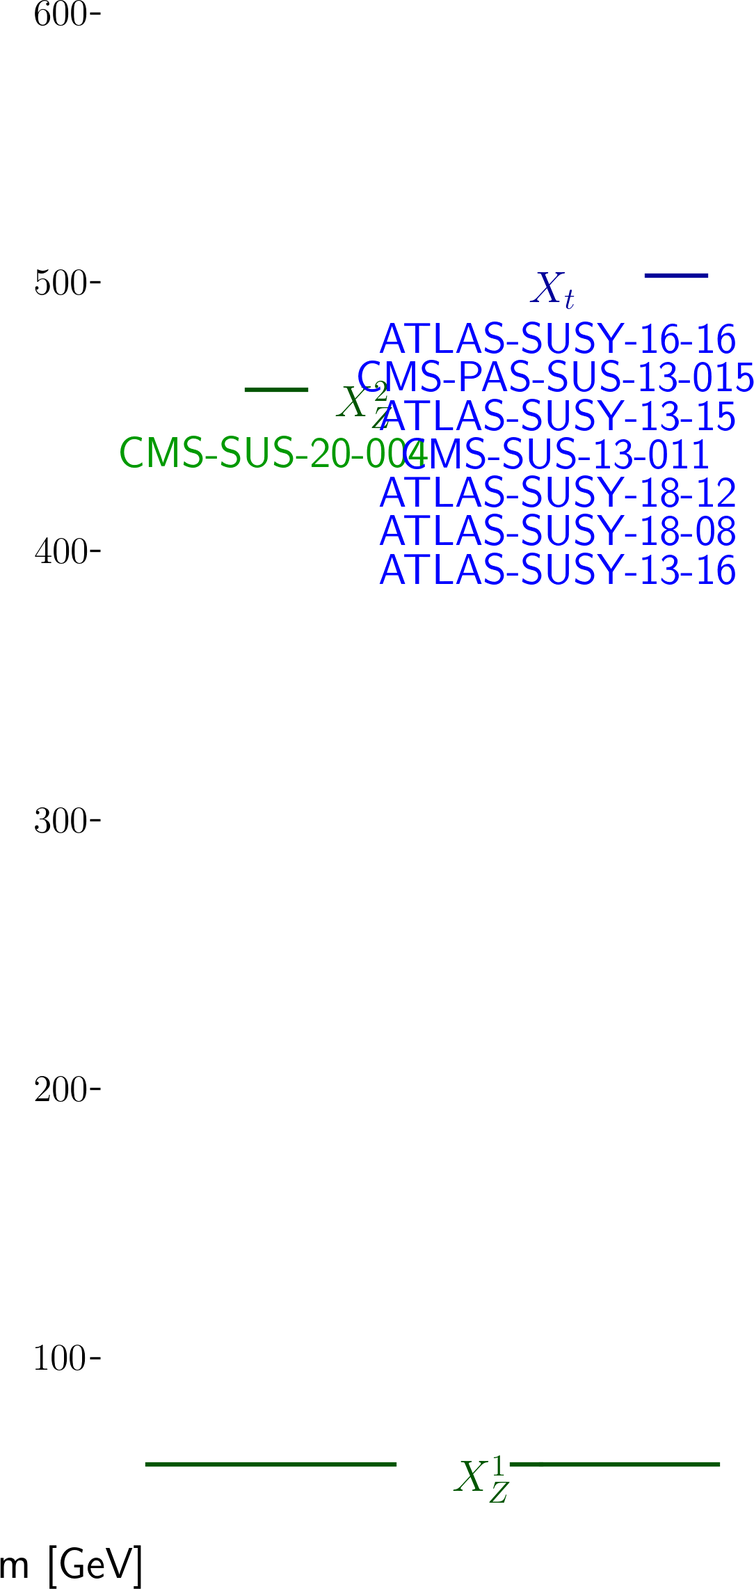
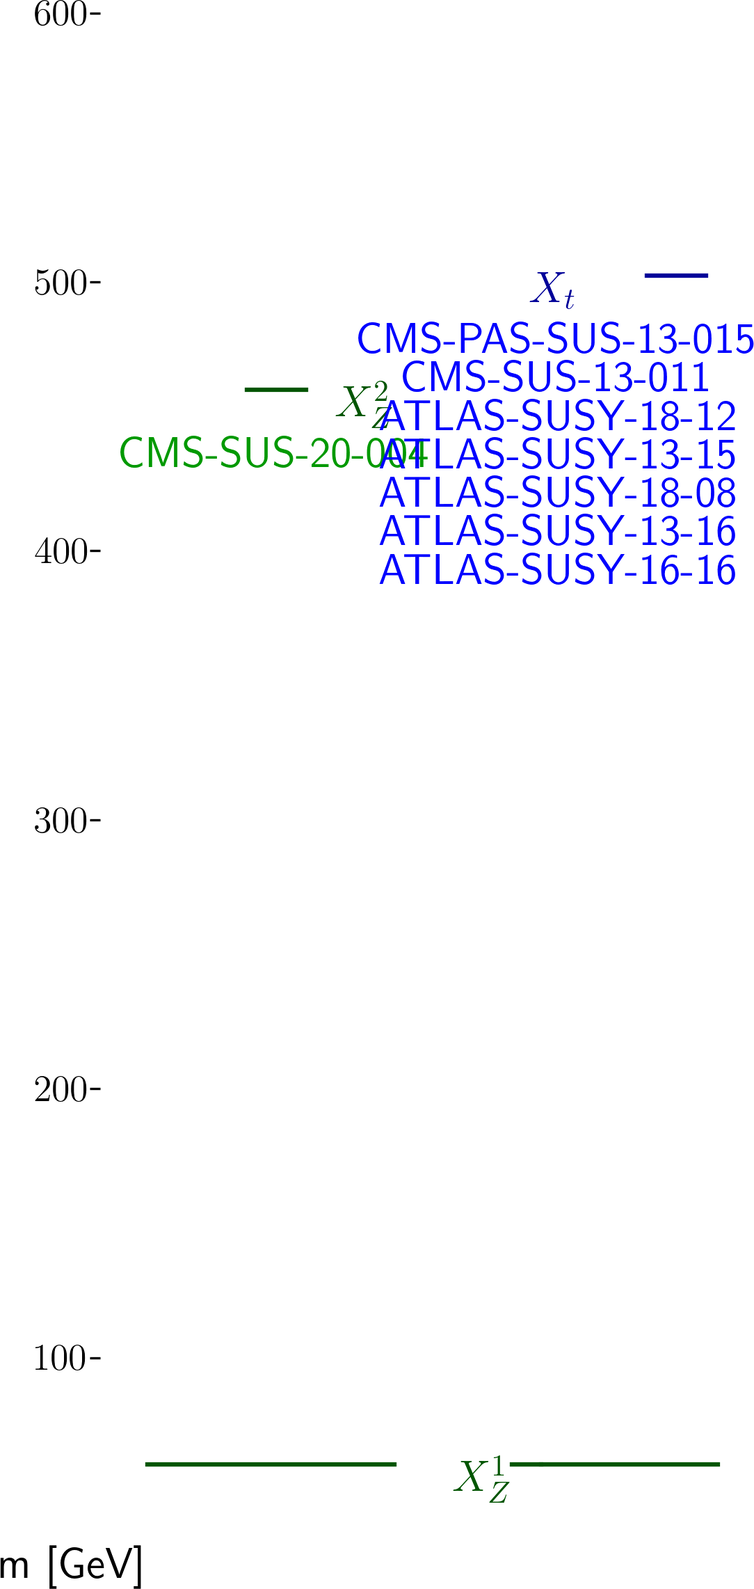
automated update by plotHiscore.py to experimental_300:     K=9.258 Z=3.58 walkerid=0

Changed region(s): [[0.4566, 0.1866, 1.0, 0.3421], [0.8828, 0.3421, 0.9133, 0.3732]]

diff --git a/protomodels/experimental_300/rawnumbers.html b/protomodels/experimental_300/rawnumbers.html
@@ -5,14 +5,13 @@
 <tr><td><a href=https://atlas.web.cern.ch/Atlas/GROUPS/PHYSICS/PAPERS/SUSY-2013-16/>ATLAS-SUSY-2013-16</a></td><td>em</td> <td>SRA4</td><td>T2tt</td><td>4</td><td>2.40 +/- 0.70</td><td style="text-align:right">0.9 &sigma;</td><td style="text-align:right">X<sup>1</sup><sub>Z</sub>, X<sub>t</sub></td></tr>
 <tr><td><a href=https://atlas.web.cern.ch/Atlas/GROUPS/PHYSICS/PAPERS/SUSY-2016-16/>ATLAS-SUSY-2016-16</a></td><td>em</td> <td>tN_med</td><td>T2tt</td><td>50</td><td>36.30 +/- 6.60</td><td style="text-align:right">1.5 &sigma;</td><td style="text-align:right">X<sup>1</sup><sub>Z</sub>, X<sub>t</sub></td></tr>
 <tr><td><a href=https://atlas.web.cern.ch/Atlas/GROUPS/PHYSICS/PAPERS/SUSY-2018-08/>ATLAS-SUSY-2018-08</a></td><td>em</td> <td>SRSF140</td><td>T2tt</td><td>9</td><td>5.10 +/- 0.90</td><td style="text-align:right">1.5 &sigma;</td><td style="text-align:right">X<sup>1</sup><sub>Z</sub>, X<sub>t</sub></td></tr>
-<tr><td><a href=https://atlas.web.cern.ch/Atlas/GROUPS/PHYSICS/PAPERS/SUSY-2018-12/>ATLAS-SUSY-2018-12</a></td><td>em</td> <td>SRBTT</td><td>T2tt</td><td>67</td><td>46.00 +/- 7.00</td><td style="text-align:right">2.1 &sigma;</td><td style="text-align:right">X<sup>1</sup><sub>Z</sub>, X<sub>t</sub></td></tr>
-<tr><td><a href=https://twiki.cern.ch/twiki/bin/view/CMSPublic/PhysicsResultsSUS13015>CMS-PAS-SUS-13-015</a></td><td>em</td> <td>pTmiss350_Nb2</td><td>T2tt</td><td>15</td><td>8.60 +/- 7.10</td><td style="text-align:right">0.7 &sigma;</td><td style="text-align:right">X<sup>1</sup><sub>Z</sub>, X<sub>t</sub></td></tr>
-<tr><td><a href=https://twiki.cern.ch/twiki/bin/view/CMSPublic/PhysicsResultsSUS13011>CMS-SUS-13-011</a></td><td>em</td> <td>LM150</td><td>T2tt</td><td>227</td><td>251.00 +/- 50.00</td><td style="text-align:right">-0.5 &sigma;</td><td style="text-align:right">X<sup>1</sup><sub>Z</sub>, X<sub>t</sub></td></tr>
+<tr><td><a href=https://atlas.web.cern.ch/Atlas/GROUPS/PHYSICS/PAPERS/SUSY-2018-12/>ATLAS-SUSY-2018-12</a></td><td>em</td> <td>SRBTT</td><td>T2tt</td><td>67</td><td>46.00 +/- 7.00</td><td style="text-align:right">2.0 &sigma;</td><td style="text-align:right">X<sup>1</sup><sub>Z</sub>, X<sub>t</sub></td></tr>
+<tr><td><a href=https://twiki.cern.ch/twiki/bin/view/CMSPublic/PhysicsResultsSUS13015>CMS-PAS-SUS-13-015</a></td><td>em</td> <td>pTmiss350_Nb2</td><td>T2tt</td><td>15</td><td>8.60 +/- 7.10</td><td style="text-align:right">0.8 &sigma;</td><td style="text-align:right">X<sup>1</sup><sub>Z</sub>, X<sub>t</sub></td></tr>
+<tr><td><a href=https://twiki.cern.ch/twiki/bin/view/CMSPublic/PhysicsResultsSUS13011>CMS-SUS-13-011</a></td><td>em</td> <td>LM150</td><td>T2tt</td><td>227</td><td>251.00 +/- 50.00</td><td style="text-align:right">-0.4 &sigma;</td><td style="text-align:right">X<sup>1</sup><sub>Z</sub>, X<sub>t</sub></td></tr>
 <tr><td><a href=http://cms-results.web.cern.ch/cms-results/public-results/publications/SUS-20-004/>CMS-SUS-20-004</a></td><td>comb</td> <td>-</td><td>TChiHH</td><td> 0.2 fb </td><td> 0.1 fb</td><td style="text-align:right">2.4 &sigma;</td><td style="text-align:right">X<sup>1</sup><sub>Z</sub>, X<sup>2</sup><sub>Z</sub></td></tr>
 </table>
 <table style='color:grey'>
 <tr><th>Analysis Name</th><th>Type</th><th>Dataset</th><th>Topos</th><th>Observed</th><th>Expected</th><th>Approx &sigma;</th><th>Particles</th><tr><td><a href=http://cms-results.web.cern.ch/cms-results/public-results/publications/SUS-19-006/index.html>CMS-SUS-19-006-agg</a></td><td>comb</td> <td>-</td><td>T2tt</td><td> 2 fb </td><td> 3 fb</td><td style="text-align:right">-inf &sigma;</td><td style="text-align:right">X<sup>1</sup><sub>Z</sub>, X<sub>t</sub></td></tr>
-<tr><td><a href=http://cms-results.web.cern.ch/cms-results/public-results/publications/SUS-20-004/>CMS-SUS-20-004</a></td><td>comb</td> <td>-</td><td>TChiHH</td><td> 0.2 fb </td><td> 0.1 fb</td><td style="text-align:right">2.4 &sigma;</td><td style="text-align:right">X<sup>1</sup><sub>Z</sub>, X<sup>2</sup><sub>Z</sub></td></tr>
 <tr><td><a href=http://cms-results.web.cern.ch/cms-results/public-results/publications/SUS-16-050/index.html>CMS-SUS-16-050-agg</a></td><td>comb</td> <td>-</td><td>T2tt</td><td> 2 fb </td><td> 2 fb</td><td style="text-align:right">-inf &sigma;</td><td style="text-align:right">X<sup>1</sup><sub>Z</sub>, X<sub>t</sub></td></tr>
 <tr><td><a href=http://cms-results.web.cern.ch/cms-results/public-results/publications/SUS-20-002/index.html>CMS-SUS-20-002</a></td><td>ul</td> <td>-</td><td>T2tt</td><td> 2e+01 fb </td><td> 2e+01 fb</td><td style="text-align:right">-0.01 &sigma;</td><td style="text-align:right">X<sup>1</sup><sub>Z</sub>, X<sub>t</sub></td></tr>
 <tr><td><a href=http://cms-results.web.cern.ch/cms-results/public-results/publications/SUS-19-010/index.html>CMS-SUS-19-010</a></td><td>ul</td> <td>-</td><td>T2tt</td><td> 2e+01 fb </td><td> 2e+01 fb</td><td style="text-align:right">0.02 &sigma;</td><td style="text-align:right">X<sup>1</sup><sub>Z</sub>, X<sub>t</sub></td></tr>
@@ -20,77 +19,36 @@
 <tr><td><a href=http://cms-results.web.cern.ch/cms-results/public-results/publications/SUS-16-036/index.html>CMS-SUS-16-036</a></td><td>ul</td> <td>-</td><td>T2tt</td><td> 4e+01 fb </td><td> 6e+01 fb</td><td style="text-align:right">-0.7 &sigma;</td><td style="text-align:right">X<sup>1</sup><sub>Z</sub>, X<sub>t</sub></td></tr>
 <tr><td><a href=https://atlas.web.cern.ch/Atlas/GROUPS/PHYSICS/PAPERS/SUSY-2018-08/>ATLAS-SUSY-2018-08</a></td><td>ul</td> <td>-</td><td>T2tt</td><td> 4e+01 fb </td><td> None fb</td><td style="text-align:right">N/A</td><td style="text-align:right">X<sup>1</sup><sub>Z</sub>, X<sub>t</sub></td></tr>
 <tr><td><a href=http://cms-results.web.cern.ch/cms-results/public-results/publications/SUS-19-011/index.html>CMS-SUS-19-011</a></td><td>ul</td> <td>-</td><td>T2tt</td><td> 4e+01 fb </td><td> 5e+01 fb</td><td style="text-align:right">-0.02 &sigma;</td><td style="text-align:right">X<sup>1</sup><sub>Z</sub>, X<sub>t</sub></td></tr>
-<tr><td><a href=https://atlas.web.cern.ch/Atlas/GROUPS/PHYSICS/PAPERS/SUSY-2018-08/>ATLAS-SUSY-2018-08</a></td><td>em</td> <td>SRDF180</td><td>T2tt</td><td>1</td><td>3.25 +/- 0.45</td><td style="text-align:right">-1.2 &sigma;</td><td style="text-align:right">X<sup>1</sup><sub>Z</sub>, X<sub>t</sub></td></tr>
 <tr><td><a href=http://cms-results.web.cern.ch/cms-results/public-results/publications/SUS-16-051/index.html>CMS-SUS-16-051</a></td><td>ul</td> <td>-</td><td>T2tt</td><td> 5e+01 fb </td><td> 5e+01 fb</td><td style="text-align:right">0.05 &sigma;</td><td style="text-align:right">X<sup>1</sup><sub>Z</sub>, X<sub>t</sub></td></tr>
 <tr><td><a href=http://cms-results.web.cern.ch/cms-results/public-results/publications/SUS-16-033/index.html>CMS-SUS-16-033</a></td><td>ul</td> <td>-</td><td>T2tt</td><td> 6e+01 fb </td><td> 8e+01 fb</td><td style="text-align:right">-0.7 &sigma;</td><td style="text-align:right">X<sup>1</sup><sub>Z</sub>, X<sub>t</sub></td></tr>
-<tr><td><a href=https://atlas.web.cern.ch/Atlas/GROUPS/PHYSICS/PAPERS/SUSY-2018-12/>ATLAS-SUSY-2018-12</a></td><td>em</td> <td>SRBTW</td><td>T2tt</td><td>84</td><td>81.00 +/- 7.00</td><td style="text-align:right">0.3 &sigma;</td><td style="text-align:right">X<sup>1</sup><sub>Z</sub>, X<sub>t</sub></td></tr>
 <tr><td><a href=https://atlas.web.cern.ch/Atlas/GROUPS/PHYSICS/PAPERS/SUSY-2016-15/>ATLAS-SUSY-2016-15</a></td><td>ul</td> <td>-</td><td>T2tt</td><td> 8e+01 fb </td><td> None fb</td><td style="text-align:right">N/A</td><td style="text-align:right">X<sup>1</sup><sub>Z</sub>, X<sub>t</sub></td></tr>
-<tr><td><a href=https://atlas.web.cern.ch/Atlas/GROUPS/PHYSICS/PAPERS/SUSY-2016-16/>ATLAS-SUSY-2016-16</a></td><td>em</td> <td>tN_med</td><td>T2tt</td><td>50</td><td>36.30 +/- 6.60</td><td style="text-align:right">1.5 &sigma;</td><td style="text-align:right">X<sup>1</sup><sub>Z</sub>, X<sub>t</sub></td></tr>
 <tr><td><a href=http://cms-results.web.cern.ch/cms-results/public-results/publications/SUS-16-033/index.html>CMS-SUS-16-033</a></td><td>em</td> <td>SR11_Njet7_Nb1_ ...</td><td>T2tt</td><td>890</td><td>969.00 +/- 80.00</td><td style="text-align:right">-0.9 &sigma;</td><td style="text-align:right">X<sup>1</sup><sub>Z</sub>, X<sub>t</sub></td></tr>
-<tr><td><a href=https://atlas.web.cern.ch/Atlas/GROUPS/PHYSICS/PAPERS/SUSY-2018-08/>ATLAS-SUSY-2018-08</a></td><td>em</td> <td>SRDF160</td><td>T2tt</td><td>1</td><td>2.83 +/- 0.45</td><td style="text-align:right">-1.0 &sigma;</td><td style="text-align:right">X<sup>1</sup><sub>Z</sub>, X<sub>t</sub></td></tr>
-<tr><td><a href=https://atlas.web.cern.ch/Atlas/GROUPS/PHYSICS/PAPERS/SUSY-2018-12/>ATLAS-SUSY-2018-12</a></td><td>em</td> <td>SRBTT</td><td>T2tt</td><td>67</td><td>46.00 +/- 7.00</td><td style="text-align:right">2.1 &sigma;</td><td style="text-align:right">X<sup>1</sup><sub>Z</sub>, X<sub>t</sub></td></tr>
 <tr><td><a href=https://atlas.web.cern.ch/Atlas/GROUPS/PHYSICS/PAPERS/SUSY-2016-16/>ATLAS-SUSY-2016-16</a></td><td>ul</td> <td>-</td><td>T2tt</td><td> 1e+02 fb </td><td> None fb</td><td style="text-align:right">N/A</td><td style="text-align:right">X<sup>1</sup><sub>Z</sub>, X<sub>t</sub></td></tr>
 <tr><td><a href=http://cms-results.web.cern.ch/cms-results/public-results/publications/SUS-17-010>CMS-SUS-17-010</a></td><td>ul</td> <td>-</td><td>T2tt</td><td> 1e+02 fb </td><td> 1e+02 fb</td><td style="text-align:right">-0.2 &sigma;</td><td style="text-align:right">X<sup>1</sup><sub>Z</sub>, X<sub>t</sub></td></tr>
-<tr><td><a href=https://atlas.web.cern.ch/Atlas/GROUPS/PHYSICS/PAPERS/SUSY-2018-08/>ATLAS-SUSY-2018-08</a></td><td>em</td> <td>SRSF180</td><td>T2tt</td><td>4</td><td>4.40 +/- 0.70</td><td style="text-align:right">-0.1 &sigma;</td><td style="text-align:right">X<sup>1</sup><sub>Z</sub>, X<sub>t</sub></td></tr>
-<tr><td><a href=https://atlas.web.cern.ch/Atlas/GROUPS/PHYSICS/PAPERS/SUSY-2018-08/>ATLAS-SUSY-2018-08</a></td><td>em</td> <td>SRDF220</td><td>T2tt</td><td>3</td><td>3.11 +/- 0.67</td><td style="text-align:right">0.0 &sigma;</td><td style="text-align:right">X<sup>1</sup><sub>Z</sub>, X<sub>t</sub></td></tr>
 <tr><td><a href=https://atlas.web.cern.ch/Atlas/GROUPS/PHYSICS/PAPERS/SUSY-2018-12/>ATLAS-SUSY-2018-12</a></td><td>ul</td> <td>-</td><td>T2tt</td><td> 1e+02 fb </td><td> 7e+01 fb</td><td style="text-align:right">1 &sigma;</td><td style="text-align:right">X<sup>1</sup><sub>Z</sub>, X<sub>t</sub></td></tr>
-<tr><td><a href=https://atlas.web.cern.ch/Atlas/GROUPS/PHYSICS/PAPERS/SUSY-2018-08/>ATLAS-SUSY-2018-08</a></td><td>em</td> <td>SRSF220</td><td>T2tt</td><td>5</td><td>5.00 +/- 1.00</td><td style="text-align:right">0.1 &sigma;</td><td style="text-align:right">X<sup>1</sup><sub>Z</sub>, X<sub>t</sub></td></tr>
-<tr><td><a href=https://atlas.web.cern.ch/Atlas/GROUPS/PHYSICS/PAPERS/SUSY-2018-12/>ATLAS-SUSY-2018-12</a></td><td>em</td> <td>SRBT0</td><td>T2tt</td><td>292</td><td>276.00 +/- 24.00</td><td style="text-align:right">0.5 &sigma;</td><td style="text-align:right">X<sup>1</sup><sub>Z</sub>, X<sub>t</sub></td></tr>
 <tr><td><a href=https://twiki.cern.ch/twiki/bin/view/CMSPublic/PhysicsResultsSUS13023>CMS-PAS-SUS-13-023</a></td><td>ul</td> <td>-</td><td>T2tt</td><td> 2e+01 fb </td><td> None fb</td><td style="text-align:right">N/A</td><td style="text-align:right">X<sup>1</sup><sub>Z</sub>, X<sub>t</sub></td></tr>
-<tr><td><a href=https://atlas.web.cern.ch/Atlas/GROUPS/PHYSICS/PAPERS/SUSY-2018-08/>ATLAS-SUSY-2018-08</a></td><td>em</td> <td>SRDF120</td><td>T2tt</td><td>13</td><td>16.30 +/- 3.20</td><td style="text-align:right">-0.6 &sigma;</td><td style="text-align:right">X<sup>1</sup><sub>Z</sub>, X<sub>t</sub></td></tr>
-<tr><td><a href=https://atlas.web.cern.ch/Atlas/GROUPS/PHYSICS/PAPERS/SUSY-2018-08/>ATLAS-SUSY-2018-08</a></td><td>em</td> <td>SRSF160</td><td>T2tt</td><td>3</td><td>3.70 +/- 0.60</td><td style="text-align:right">-0.3 &sigma;</td><td style="text-align:right">X<sup>1</sup><sub>Z</sub>, X<sub>t</sub></td></tr>
 <tr><td><a href=http://atlas.web.cern.ch/Atlas/GROUPS/PHYSICS/PAPERS/SUSY-2016-17/>ATLAS-SUSY-2016-17</a></td><td>ul</td> <td>-</td><td>T2tt</td><td> 2e+02 fb </td><td> None fb</td><td style="text-align:right">N/A</td><td style="text-align:right">X<sup>1</sup><sub>Z</sub>, X<sub>t</sub></td></tr>
 <tr><td><a href=https://twiki.cern.ch/twiki/bin/view/CMSPublic/PhysicsResultsSUS13011>CMS-SUS-13-011</a></td><td>ul</td> <td>-</td><td>T2tt</td><td> 3e+01 fb </td><td> None fb</td><td style="text-align:right">N/A</td><td style="text-align:right">X<sup>1</sup><sub>Z</sub>, X<sub>t</sub></td></tr>
 <tr><td><a href=https://atlas.web.cern.ch/Atlas/GROUPS/PHYSICS/PAPERS/SUSY-2013-15/>ATLAS-SUSY-2013-15</a></td><td>ul</td> <td>-</td><td>T2tt</td><td> 3e+01 fb </td><td> None fb</td><td style="text-align:right">N/A</td><td style="text-align:right">X<sup>1</sup><sub>Z</sub>, X<sub>t</sub></td></tr>
 <tr><td><a href=https://atlas.web.cern.ch/Atlas/GROUPS/PHYSICS/PAPERS/SUSY-2013-16/>ATLAS-SUSY-2013-16</a></td><td>ul</td> <td>-</td><td>T2tt</td><td> 3e+01 fb </td><td> None fb</td><td style="text-align:right">N/A</td><td style="text-align:right">X<sup>1</sup><sub>Z</sub>, X<sub>t</sub></td></tr>
-<tr><td><a href=https://atlas.web.cern.ch/Atlas/GROUPS/PHYSICS/PAPERS/SUSY-2013-15/>ATLAS-SUSY-2013-15</a></td><td>em</td> <td>tNmed</td><td>T2tt</td><td>12</td><td>13.00 +/- 2.20</td><td style="text-align:right">-0.2 &sigma;</td><td style="text-align:right">X<sup>1</sup><sub>Z</sub>, X<sub>t</sub></td></tr>
-<tr><td><a href=https://atlas.web.cern.ch/Atlas/GROUPS/PHYSICS/PAPERS/SUSY-2018-12/>ATLAS-SUSY-2018-12</a></td><td>em</td> <td>SRATT</td><td>T2tt</td><td>4</td><td>3.20 +/- 0.50</td><td style="text-align:right">0.5 &sigma;</td><td style="text-align:right">X<sup>1</sup><sub>Z</sub>, X<sub>t</sub></td></tr>
-<tr><td><a href=https://twiki.cern.ch/twiki/bin/view/CMSPublic/PhysicsResultsSUS13011>CMS-SUS-13-011</a></td><td>em</td> <td>HM250</td><td>T2tt</td><td>3</td><td>9.50 +/- 2.80</td><td style="text-align:right">-1.7 &sigma;</td><td style="text-align:right">X<sup>1</sup><sub>Z</sub>, X<sub>t</sub></td></tr>
-<tr><td><a href=https://atlas.web.cern.ch/Atlas/GROUPS/PHYSICS/PAPERS/SUSY-2013-16/>ATLAS-SUSY-2013-16</a></td><td>em</td> <td>SRA1</td><td>T2tt</td><td>11</td><td>15.80 +/- 1.90</td><td style="text-align:right">-1.1 &sigma;</td><td style="text-align:right">X<sup>1</sup><sub>Z</sub>, X<sub>t</sub></td></tr>
-<tr><td><a href=https://atlas.web.cern.ch/Atlas/GROUPS/PHYSICS/PAPERS/SUSY-2018-12/>ATLAS-SUSY-2018-12</a></td><td>em</td> <td>SRAT0</td><td>T2tt</td><td>11</td><td>17.30 +/- 1.70</td><td style="text-align:right">-1.4 &sigma;</td><td style="text-align:right">X<sup>1</sup><sub>Z</sub>, X<sub>t</sub></td></tr>
-<tr><td><a href=https://atlas.web.cern.ch/Atlas/GROUPS/PHYSICS/PAPERS/SUSY-2018-08/>ATLAS-SUSY-2018-08</a></td><td>em</td> <td>SRDF140</td><td>T2tt</td><td>5</td><td>5.10 +/- 0.80</td><td style="text-align:right">0.0 &sigma;</td><td style="text-align:right">X<sup>1</sup><sub>Z</sub>, X<sub>t</sub></td></tr>
 <tr><td><a href=https://cms-results.web.cern.ch/cms-results/public-results/publications/SUS-16-009/>CMS-SUS-16-009</a></td><td>ul</td> <td>-</td><td>T2tt</td><td> 2e+02 fb </td><td> 2e+02 fb</td><td style="text-align:right">1 &sigma;</td><td style="text-align:right">X<sup>1</sup><sub>Z</sub>, X<sub>t</sub></td></tr>
-<tr><td><a href=https://twiki.cern.ch/twiki/bin/view/CMSPublic/PhysicsResultsSUS13011>CMS-SUS-13-011</a></td><td>em</td> <td>HM300</td><td>T2tt</td><td>2</td><td>4.70 +/- 1.40</td><td style="text-align:right">-1.1 &sigma;</td><td style="text-align:right">X<sup>1</sup><sub>Z</sub>, X<sub>t</sub></td></tr>
-<tr><td><a href=https://atlas.web.cern.ch/Atlas/GROUPS/PHYSICS/PAPERS/SUSY-2013-16/>ATLAS-SUSY-2013-16</a></td><td>em</td> <td>SRA2</td><td>T2tt</td><td>4</td><td>4.10 +/- 0.80</td><td style="text-align:right">0.1 &sigma;</td><td style="text-align:right">X<sup>1</sup><sub>Z</sub>, X<sub>t</sub></td></tr>
 <tr><td><a href=https://twiki.cern.ch/twiki/bin/view/CMSPublic/PhysicsResultsSUS13004>CMS-SUS-13-004</a></td><td>ul</td> <td>-</td><td>T2tt</td><td> 4e+01 fb </td><td> None fb</td><td style="text-align:right">N/A</td><td style="text-align:right">X<sup>1</sup><sub>Z</sub>, X<sub>t</sub></td></tr>
-<tr><td><a href=https://atlas.web.cern.ch/Atlas/GROUPS/PHYSICS/PAPERS/SUSY-2013-16/>ATLAS-SUSY-2013-16</a></td><td>em</td> <td>SRA3</td><td>T2tt</td><td>5</td><td>4.10 +/- 0.90</td><td style="text-align:right">0.5 &sigma;</td><td style="text-align:right">X<sup>1</sup><sub>Z</sub>, X<sub>t</sub></td></tr>
-<tr><td><a href=https://atlas.web.cern.ch/Atlas/GROUPS/PHYSICS/PAPERS/SUSY-2018-08/>ATLAS-SUSY-2018-08</a></td><td>em</td> <td>SRSF140</td><td>T2tt</td><td>9</td><td>5.10 +/- 0.90</td><td style="text-align:right">1.5 &sigma;</td><td style="text-align:right">X<sup>1</sup><sub>Z</sub>, X<sub>t</sub></td></tr>
-<tr><td><a href=https://atlas.web.cern.ch/Atlas/GROUPS/PHYSICS/PAPERS/SUSY-2018-12/>ATLAS-SUSY-2018-12</a></td><td>em</td> <td>SRATW</td><td>T2tt</td><td>8</td><td>5.60 +/- 0.70</td><td style="text-align:right">1.0 &sigma;</td><td style="text-align:right">X<sup>1</sup><sub>Z</sub>, X<sub>t</sub></td></tr>
-<tr><td><a href=https://twiki.cern.ch/twiki/bin/view/CMSPublic/PhysicsResultsSUS13011>CMS-SUS-13-011</a></td><td>em</td> <td>LM300</td><td>T2tt</td><td>9</td><td>11.50 +/- 3.60</td><td style="text-align:right">-0.4 &sigma;</td><td style="text-align:right">X<sup>1</sup><sub>Z</sub>, X<sub>t</sub></td></tr>
-<tr><td><a href=https://twiki.cern.ch/twiki/bin/view/CMSPublic/PhysicsResultsSUS13011>CMS-SUS-13-011</a></td><td>em</td> <td>LM250</td><td>T2tt</td><td>21</td><td>31.00 +/- 8.00</td><td style="text-align:right">-1.0 &sigma;</td><td style="text-align:right">X<sup>1</sup><sub>Z</sub>, X<sub>t</sub></td></tr>
-<tr><td><a href=https://twiki.cern.ch/twiki/bin/view/CMSPublic/PhysicsResultsSUS13011>CMS-SUS-13-011</a></td><td>em</td> <td>HM200</td><td>T2tt</td><td>11</td><td>17.00 +/- 5.00</td><td style="text-align:right">-0.9 &sigma;</td><td style="text-align:right">X<sup>1</sup><sub>Z</sub>, X<sub>t</sub></td></tr>
-<tr><td><a href=https://twiki.cern.ch/twiki/bin/view/CMSPublic/PhysicsResultsSUS13015>CMS-PAS-SUS-13-015</a></td><td>em</td> <td>pTmiss350_Nb1</td><td>T2tt</td><td>45</td><td>40.90 +/- 9.60</td><td style="text-align:right">0.4 &sigma;</td><td style="text-align:right">X<sup>1</sup><sub>Z</sub>, X<sub>t</sub></td></tr>
-<tr><td><a href=https://atlas.web.cern.ch/Atlas/GROUPS/PHYSICS/PAPERS/SUSY-2018-08/>ATLAS-SUSY-2018-08</a></td><td>em</td> <td>SRDF110</td><td>T2tt</td><td>19</td><td>22.00 +/- 4.00</td><td style="text-align:right">-0.5 &sigma;</td><td style="text-align:right">X<sup>1</sup><sub>Z</sub>, X<sub>t</sub></td></tr>
-<tr><td><a href=https://atlas.web.cern.ch/Atlas/GROUPS/PHYSICS/PAPERS/SUSY-2013-15/>ATLAS-SUSY-2013-15</a></td><td>em</td> <td>tNboost</td><td>T2tt</td><td>5</td><td>3.30 +/- 0.70</td><td style="text-align:right">0.9 &sigma;</td><td style="text-align:right">X<sup>1</sup><sub>Z</sub>, X<sub>t</sub></td></tr>
 <tr><td><a href=http://cms-results.web.cern.ch/cms-results/public-results/publications/SUS-16-033/index.html>CMS-SUS-16-033</a></td><td>em</td> <td>SR6_Njet2_Nb2_H ...</td><td>T2tt</td><td>216</td><td>196.00 +/- 28.00</td><td style="text-align:right">0.6 &sigma;</td><td style="text-align:right">X<sup>1</sup><sub>Z</sub>, X<sub>t</sub></td></tr>
 <tr><td><a href=http://cms-results.web.cern.ch/cms-results/public-results/publications/SUS-16-033/index.html>CMS-SUS-16-033</a></td><td>em</td> <td>SR8_Njet5_Nb3_H ...</td><td>T2tt</td><td>17</td><td>19.50 +/- 8.40</td><td style="text-align:right">-0.2 &sigma;</td><td style="text-align:right">X<sup>1</sup><sub>Z</sub>, X<sub>t</sub></td></tr>
-<tr><td><a href=https://atlas.web.cern.ch/Atlas/GROUPS/PHYSICS/PAPERS/SUSY-2018-08/>ATLAS-SUSY-2018-08</a></td><td>em</td> <td>SRSF120</td><td>T2tt</td><td>19</td><td>14.40 +/- 2.90</td><td style="text-align:right">1.0 &sigma;</td><td style="text-align:right">X<sup>1</sup><sub>Z</sub>, X<sub>t</sub></td></tr>
-<tr><td><a href=http://atlas.web.cern.ch/Atlas/GROUPS/PHYSICS/PAPERS/SUSY-2015-02/>ATLAS-SUSY-2015-02</a></td><td>em</td> <td>SR1</td><td>T2tt</td><td>12</td><td>5.50 +/- 0.72</td><td style="text-align:right">2.3 &sigma;</td><td style="text-align:right">X<sup>1</sup><sub>Z</sub>, X<sub>t</sub></td></tr>
+<tr><td><a href=http://atlas.web.cern.ch/Atlas/GROUPS/PHYSICS/PAPERS/SUSY-2015-02/>ATLAS-SUSY-2015-02</a></td><td>em</td> <td>SR1</td><td>T2tt</td><td>12</td><td>5.50 +/- 0.72</td><td style="text-align:right">2.4 &sigma;</td><td style="text-align:right">X<sup>1</sup><sub>Z</sub>, X<sub>t</sub></td></tr>
 <tr><td><a href=http://atlas.web.cern.ch/Atlas/GROUPS/PHYSICS/PAPERS/SUSY-2015-02/>ATLAS-SUSY-2015-02</a></td><td>em</td> <td>SR3</td><td>T2tt</td><td>1</td><td>1.03 +/- 0.18</td><td style="text-align:right">0.1 &sigma;</td><td style="text-align:right">X<sup>1</sup><sub>Z</sub>, X<sub>t</sub></td></tr>
-<tr><td><a href=https://atlas.web.cern.ch/Atlas/GROUPS/PHYSICS/PAPERS/SUSY-2013-16/>ATLAS-SUSY-2013-16</a></td><td>em</td> <td>SRC3</td><td>T2tt</td><td>15</td><td>20.30 +/- 3.00</td><td style="text-align:right">-1.0 &sigma;</td><td style="text-align:right">X<sup>1</sup><sub>Z</sub>, X<sub>t</sub></td></tr>
-<tr><td><a href=https://atlas.web.cern.ch/Atlas/GROUPS/PHYSICS/PAPERS/SUSY-2018-08/>ATLAS-SUSY-2018-08</a></td><td>em</td> <td>SRSF110</td><td>T2tt</td><td>17</td><td>18.80 +/- 3.50</td><td style="text-align:right">-0.3 &sigma;</td><td style="text-align:right">X<sup>1</sup><sub>Z</sub>, X<sub>t</sub></td></tr>
 <tr><td><a href=https://atlas.web.cern.ch/Atlas/GROUPS/PHYSICS/PAPERS/SUSY-2013-19/>ATLAS-SUSY-2013-19</a></td><td>ul</td> <td>-</td><td>T2tt</td><td> 6e+01 fb </td><td> None fb</td><td style="text-align:right">N/A</td><td style="text-align:right">X<sup>1</sup><sub>Z</sub>, X<sub>t</sub></td></tr>
 <tr><td><a href=http://atlas.web.cern.ch/Atlas/GROUPS/PHYSICS/PAPERS/SUSY-2015-02/>ATLAS-SUSY-2015-02</a></td><td>em</td> <td>SR2</td><td>T2tt</td><td>1</td><td>1.25 +/- 0.26</td><td style="text-align:right">-0.1 &sigma;</td><td style="text-align:right">X<sup>1</sup><sub>Z</sub>, X<sub>t</sub></td></tr>
-<tr><td><a href=https://atlas.web.cern.ch/Atlas/GROUPS/PHYSICS/PAPERS/SUSY-2013-16/>ATLAS-SUSY-2013-16</a></td><td>em</td> <td>SRC1</td><td>T2tt</td><td>59</td><td>68.00 +/- 7.00</td><td style="text-align:right">-0.8 &sigma;</td><td style="text-align:right">X<sup>1</sup><sub>Z</sub>, X<sub>t</sub></td></tr>
 <tr><td><a href=https://atlas.web.cern.ch/Atlas/GROUPS/PHYSICS/PAPERS/SUSY-2018-41/>ATLAS-SUSY-2018-41</a></td><td>em</td> <td>SR-2B2Q-Vh</td><td>TChiHH</td><td>1</td><td>2.49 +/- 0.78</td><td style="text-align:right">-0.8 &sigma;</td><td style="text-align:right">X<sup>1</sup><sub>Z</sub>, X<sup>2</sup><sub>Z</sub></td></tr>
-<tr><td><a href=https://twiki.cern.ch/twiki/bin/view/CMSPublic/PhysicsResultsSUS13011>CMS-SUS-13-011</a></td><td>em</td> <td>HM150</td><td>T2tt</td><td>23</td><td>29.00 +/- 7.00</td><td style="text-align:right">-0.7 &sigma;</td><td style="text-align:right">X<sup>1</sup><sub>Z</sub>, X<sub>t</sub></td></tr>
-<tr><td><a href=https://atlas.web.cern.ch/Atlas/GROUPS/PHYSICS/PAPERS/SUSY-2013-15/>ATLAS-SUSY-2013-15</a></td><td>em</td> <td>tNdiag</td><td>T2tt</td><td>217</td><td>236.00 +/- 29.00</td><td style="text-align:right">-0.6 &sigma;</td><td style="text-align:right">X<sup>1</sup><sub>Z</sub>, X<sub>t</sub></td></tr>
-<tr><td><a href=https://atlas.web.cern.ch/Atlas/GROUPS/PHYSICS/PAPERS/SUSY-2013-16/>ATLAS-SUSY-2013-16</a></td><td>em</td> <td>SRA4</td><td>T2tt</td><td>4</td><td>2.40 +/- 0.70</td><td style="text-align:right">0.9 &sigma;</td><td style="text-align:right">X<sup>1</sup><sub>Z</sub>, X<sub>t</sub></td></tr>
-<tr><td><a href=https://twiki.cern.ch/twiki/bin/view/CMSPublic/PhysicsResultsSUS13015>CMS-PAS-SUS-13-015</a></td><td>em</td> <td>pTmiss350_Nb2</td><td>T2tt</td><td>15</td><td>8.60 +/- 7.10</td><td style="text-align:right">0.8 &sigma;</td><td style="text-align:right">X<sup>1</sup><sub>Z</sub>, X<sub>t</sub></td></tr>
-<tr><td><a href=https://twiki.cern.ch/twiki/bin/view/CMSPublic/PhysicsResultsSUS13015>CMS-PAS-SUS-13-015</a></td><td>em</td> <td>pTmiss200_Nb1</td><td>T2tt</td><td>254</td><td>254.30 +/- 35.00</td><td style="text-align:right">0.0 &sigma;</td><td style="text-align:right">X<sup>1</sup><sub>Z</sub>, X<sub>t</sub></td></tr>
-<tr><td><a href=https://atlas.web.cern.ch/Atlas/GROUPS/PHYSICS/PAPERS/SUSY-2013-16/>ATLAS-SUSY-2013-16</a></td><td>em</td> <td>SRC2</td><td>T2tt</td><td>30</td><td>34.00 +/- 5.00</td><td style="text-align:right">-0.5 &sigma;</td><td style="text-align:right">X<sup>1</sup><sub>Z</sub>, X<sub>t</sub></td></tr>
 <tr><td><a href=https://twiki.cern.ch/twiki/bin/view/CMSPublic/PhysicsResultsSUS13019>CMS-SUS-13-019</a></td><td>ul</td> <td>-</td><td>T2tt</td><td> 9e+01 fb </td><td> None fb</td><td style="text-align:right">N/A</td><td style="text-align:right">X<sup>1</sup><sub>Z</sub>, X<sub>t</sub></td></tr>
-<tr><td><a href=https://twiki.cern.ch/twiki/bin/view/CMSPublic/PhysicsResultsSUS13015>CMS-PAS-SUS-13-015</a></td><td>em</td> <td>pTmiss200_Nb2</td><td>T2tt</td><td>83</td><td>88.40 +/- 19.80</td><td style="text-align:right">-0.2 &sigma;</td><td style="text-align:right">X<sup>1</sup><sub>Z</sub>, X<sub>t</sub></td></tr>
-<tr><td><a href=https://twiki.cern.ch/twiki/bin/view/CMSPublic/PhysicsResultsSUS13011>CMS-SUS-13-011</a></td><td>em</td> <td>LM200</td><td>T2tt</td><td>69</td><td>83.00 +/- 21.00</td><td style="text-align:right">-0.6 &sigma;</td><td style="text-align:right">X<sup>1</sup><sub>Z</sub>, X<sub>t</sub></td></tr>
 <tr><td><a href=http://cms-results.web.cern.ch/cms-results/public-results/publications/SUS-16-033/index.html>CMS-SUS-16-033</a></td><td>em</td> <td>SR12_Njet5_Nb1_ ...</td><td>T2tt</td><td>48</td><td>42.20 +/- 9.70</td><td style="text-align:right">0.5 &sigma;</td><td style="text-align:right">X<sup>1</sup><sub>Z</sub>, X<sub>t</sub></td></tr>
-<tr><td><a href=https://twiki.cern.ch/twiki/bin/view/CMSPublic/PhysicsResultsSUS13011>CMS-SUS-13-011</a></td><td>em</td> <td>LM150</td><td>T2tt</td><td>227</td><td>251.00 +/- 50.00</td><td style="text-align:right">-0.4 &sigma;</td><td style="text-align:right">X<sup>1</sup><sub>Z</sub>, X<sub>t</sub></td></tr>
 <tr><td><a href=https://twiki.cern.ch/twiki/bin/view/CMSPublic/PhysicsResultsSUS13012>CMS-SUS-13-012</a></td><td>em</td> <td>6NJet8_500HT800 ...</td><td>T2tt</td><td>62</td><td>52.00 +/- 12.00</td><td style="text-align:right">0.7 &sigma;</td><td style="text-align:right">X<sup>1</sup><sub>Z</sub>, X<sub>t</sub></td></tr>
 <tr><td><a href=https://twiki.cern.ch/twiki/bin/view/CMSPublic/PhysicsResultsSUS13012>CMS-SUS-13-012</a></td><td>em</td> <td>6NJet8_800HT100 ...</td><td>T2tt</td><td>4</td><td>6.00 +/- 2.80</td><td style="text-align:right">-0.5 &sigma;</td><td style="text-align:right">X<sup>1</sup><sub>Z</sub>, X<sub>t</sub></td></tr>
 <tr><td><a href=http://cms-results.web.cern.ch/cms-results/public-results/publications/SUS-16-033/index.html>CMS-SUS-16-033</a></td><td>em</td> <td>SR3_Njet5_Nb0_H ...</td><td>T2tt</td><td>819</td><td>806.00 +/- 57.00</td><td style="text-align:right">0.2 &sigma;</td><td style="text-align:right">X<sup>1</sup><sub>Z</sub>, X<sub>t</sub></td></tr>
 <tr><td><a href=http://cms-results.web.cern.ch/cms-results/public-results/publications/SUS-16-033/index.html>CMS-SUS-16-033</a></td><td>em</td> <td>SR7_Njet3_Nb1_H ...</td><td>T2tt</td><td>123</td><td>113.00 +/- 18.00</td><td style="text-align:right">0.5 &sigma;</td><td style="text-align:right">X<sup>1</sup><sub>Z</sub>, X<sub>t</sub></td></tr>
 <tr><td><a href=http://cms-results.web.cern.ch/cms-results/public-results/publications/SUS-16-033/index.html>CMS-SUS-16-033</a></td><td>em</td> <td>SR4_Njet5_Nb0_H ...</td><td>T2tt</td><td>25</td><td>23.00 +/- 6.50</td><td style="text-align:right">0.3 &sigma;</td><td style="text-align:right">X<sup>1</sup><sub>Z</sub>, X<sub>t</sub></td></tr>
-<tr><td><a href=https://twiki.cern.ch/twiki/bin/view/CMSPublic/PhysicsResultsSUS13012>CMS-SUS-13-012</a></td><td>em</td> <td>6NJet8_1000HT12 ...</td><td>T2tt</td><td>20</td><td>21.60 +/- 5.80</td><td style="text-align:right">-0.1 &sigma;</td><td style="text-align:right">X<sup>1</sup><sub>Z</sub>, X<sub>t</sub></td></tr>
-<tr><td><a href=https://twiki.cern.ch/twiki/bin/view/CMSPublic/PhysicsResultsSUS13012>CMS-SUS-13-012</a></td><td>em</td> <td>6NJet8_800HT100 ...</td><td>T2tt</td><td>35</td><td>28.60 +/- 6.90</td><td style="text-align:right">0.7 &sigma;</td><td style="text-align:right">X<sup>1</sup><sub>Z</sub>, X<sub>t</sub></td></tr>
+<tr><td><a href=https://twiki.cern.ch/twiki/bin/view/CMSPublic/PhysicsResultsSUS13012>CMS-SUS-13-012</a></td><td>em</td> <td>6NJet8_1000HT12 ...</td><td>T2tt</td><td>20</td><td>21.60 +/- 5.80</td><td style="text-align:right">-0.2 &sigma;</td><td style="text-align:right">X<sup>1</sup><sub>Z</sub>, X<sub>t</sub></td></tr>
+<tr><td><a href=https://twiki.cern.ch/twiki/bin/view/CMSPublic/PhysicsResultsSUS13012>CMS-SUS-13-012</a></td><td>em</td> <td>6NJet8_800HT100 ...</td><td>T2tt</td><td>35</td><td>28.60 +/- 6.90</td><td style="text-align:right">0.8 &sigma;</td><td style="text-align:right">X<sup>1</sup><sub>Z</sub>, X<sub>t</sub></td></tr>
 <tr><td><a href=https://twiki.cern.ch/twiki/bin/view/CMSPublic/PhysicsResultsSUS13012>CMS-SUS-13-012</a></td><td>em</td> <td>3NJet6_800HT100 ...</td><td>T2tt</td><td>305</td><td>330.00 +/- 40.00</td><td style="text-align:right">-0.6 &sigma;</td><td style="text-align:right">X<sup>1</sup><sub>Z</sub>, X<sub>t</sub></td></tr>
 <tr><td><a href=https://twiki.cern.ch/twiki/bin/view/CMSPublic/PhysicsResultsSUS13012>CMS-SUS-13-012</a></td><td>em</td> <td>6NJet8_1500HTin ...</td><td>T2tt</td><td>3</td><td>7.90 +/- 3.60</td><td style="text-align:right">-1.1 &sigma;</td><td style="text-align:right">X<sup>1</sup><sub>Z</sub>, X<sub>t</sub></td></tr>
 <tr><td><a href=https://twiki.cern.ch/twiki/bin/view/CMSPublic/PhysicsResultsSUS13012>CMS-SUS-13-012</a></td><td>em</td> <td>3NJet6_500HT800 ...</td><td>T2tt</td><td>2305</td><td>2278.00 +/- 266.00</td><td style="text-align:right">0.1 &sigma;</td><td style="text-align:right">X<sup>1</sup><sub>Z</sub>, X<sub>t</sub></td></tr>
@@ -124,7 +82,7 @@
 <tr><td><a href=https://twiki.cern.ch/twiki/bin/view/CMSPublic/PhysicsResultsSUS13012>CMS-SUS-13-012</a></td><td>em</td> <td>3NJet6_1000HT12 ...</td><td>T2tt</td><td>32</td><td>22.80 +/- 5.20</td><td style="text-align:right">1.3 &sigma;</td><td style="text-align:right">X<sup>1</sup><sub>Z</sub>, X<sub>t</sub></td></tr>
 <tr><td><a href=https://twiki.cern.ch/twiki/bin/view/CMSPublic/PhysicsResultsSUS13012>CMS-SUS-13-012</a></td><td>em</td> <td>3NJet6_1250HT15 ...</td><td>T2tt</td><td>98</td><td>109.00 +/- 18.00</td><td style="text-align:right">-0.5 &sigma;</td><td style="text-align:right">X<sup>1</sup><sub>Z</sub>, X<sub>t</sub></td></tr>
 <tr><td><a href=https://atlas.web.cern.ch/Atlas/GROUPS/PHYSICS/PAPERS/SUSY-2013-04/>ATLAS-SUSY-2013-04</a></td><td>em</td> <td>GtGrid_SR_8ej50 ...</td><td>T2tt</td><td>40</td><td>35.00 +/- 4.00</td><td style="text-align:right">0.7 &sigma;</td><td style="text-align:right">X<sup>1</sup><sub>Z</sub>, X<sub>t</sub></td></tr>
-<tr><td><a href=https://twiki.cern.ch/twiki/bin/view/CMSPublic/PhysicsResultsSUS13012>CMS-SUS-13-012</a></td><td>em</td> <td>3NJet6_1500HTin ...</td><td>T2tt</td><td>39</td><td>29.70 +/- 5.80</td><td style="text-align:right">1.2 &sigma;</td><td style="text-align:right">X<sup>1</sup><sub>Z</sub>, X<sub>t</sub></td></tr>
+<tr><td><a href=https://twiki.cern.ch/twiki/bin/view/CMSPublic/PhysicsResultsSUS13012>CMS-SUS-13-012</a></td><td>em</td> <td>3NJet6_1500HTin ...</td><td>T2tt</td><td>39</td><td>29.70 +/- 5.80</td><td style="text-align:right">1.1 &sigma;</td><td style="text-align:right">X<sup>1</sup><sub>Z</sub>, X<sub>t</sub></td></tr>
 <tr><td><a href=https://twiki.cern.ch/twiki/bin/view/CMSPublic/PhysicsResultsSUS13012>CMS-SUS-13-012</a></td><td>em</td> <td>3NJet6_500HT800 ...</td><td>T2tt</td><td>6159</td><td>6088.00 +/- 665.00</td><td style="text-align:right">0.1 &sigma;</td><td style="text-align:right">X<sup>1</sup><sub>Z</sub>, X<sub>t</sub></td></tr>
 <tr><td><a href=https://twiki.cern.ch/twiki/bin/view/CMSPublic/PhysicsResultsSUS13012>CMS-SUS-13-012</a></td><td>em</td> <td>8NJetinf_1500HT ...</td><td>T2tt</td><td>2</td><td>3.30 +/- 4.70</td><td style="text-align:right">-0.7 &sigma;</td><td style="text-align:right">X<sup>1</sup><sub>Z</sub>, X<sub>t</sub></td></tr>
 <tr><td><a href=https://twiki.cern.ch/twiki/bin/view/CMSPublic/PhysicsResultsSUS13012>CMS-SUS-13-012</a></td><td>em</td> <td>3NJet6_800HT100 ...</td><td>T2tt</td><td>808</td><td>777.00 +/- 107.00</td><td style="text-align:right">0.3 &sigma;</td><td style="text-align:right">X<sup>1</sup><sub>Z</sub>, X<sub>t</sub></td></tr>

diff --git a/protomodels/experimental_300/index.html b/protomodels/experimental_300/index.html
@@ -3,8 +3,8 @@
 <center>
 <table><td><h1>Current best protomodel: <i>K</i>=9.26, <i>Z</i>=3.58</h1><td><img height=60px src=https://smodels.github.io//protomodels/logos/protomodel_lego.png></table>
 </center>
-<b><a href=./hiscore.slha>ProtoModel</a> <a href=./pmodel.dict>(dict)</a> produced with <a href=https://smodels.github.io//docs/Validation300-beta>database v3.0.0-beta</a>, combination strategy <a href=./matrix.png>aggressive</a> in walker 0 step 0.</b> llhd plots: <a href=llhdXt_mXtXt.png?1399758>Xt_mXtXt</a> <a href=llhdX2Z_X2ZX2Z.png?1399758>X2Z_X2ZX2Z</a> <a href=llhdXt_XtXt.png?1399758>Xt_XtXt</a> <a href=llhdXt.png?1399758>Xt</a> <a href=llhdX2Z.png?1399758>X2Z</a>
-S plots: <a href=MXt.png?1399758>Xt</a> <a href=MX2Z.png?1399758>X2Z</a> <a href=MX1Z.png?1399758>X1Z</a>
+<b><a href=./hiscore.slha>ProtoModel</a> <a href=./pmodel.dict>(dict)</a> produced with <a href=https://smodels.github.io//docs/Validation300-beta>database v3.0.0-beta</a>, combination strategy <a href=./matrix.png>aggressive</a> in walker 0 step 0.</b> llhd plots: <a href=llhdXt_mXtXt.png?1401691>Xt_mXtXt</a> <a href=llhdX2Z_X2ZX2Z.png?1401691>X2Z_X2ZX2Z</a> <a href=llhdXt_XtXt.png?1401691>Xt_XtXt</a> <a href=llhdXt.png?1401691>Xt</a> <a href=llhdX2Z.png?1401691>X2Z</a>
+S plots: <a href=MXt.png?1401691>Xt</a> <a href=MX2Z.png?1401691>X2Z</a> <a href=MX1Z.png?1401691>X1Z</a>
 <br>
 <table width=80%>
 <tr><td>
@@ -14,11 +14,11 @@ S plots: <a href=MXt.png?1399758>Xt</a> <a href=MX2Z.png?1399758>X2Z</a> <a href
 <li><a href=http://cms-results.web.cern.ch/cms-results/public-results/publications/SUS-19-009/index.html>CMS-SUS-19-009</a>:ul:T2tt r=0.86, r<sub>exp</sub>=0.88<br>
 <li><a href=http://cms-results.web.cern.ch/cms-results/public-results/publications/SUS-19-006/index.html>CMS-SUS-19-006-agg</a>:comb:T2tt r=0.70, r<sub>exp</sub>=0.43<br>
 </ul>
-<td><img width=600px src=./texdoc.png?1710519758>
-<br><font size=-1>Last updated: Fri Mar 15 17:22:38 2024</font>
+<td><img width=600px src=./texdoc.png?1710521691>
+<br><font size=-1>Last updated: Fri Mar 15 17:54:51 2024</font>
 </table><table style="width:80%">
-<td width=45%><img height=580px src=./ruler.png?1710519758><td width=55%><img height=220px src=./decays.png?1710519758>
-<font size=-3><iframe type="text/html" height="300px" width="100%" frameborder="0" src="./rawnumbers.html?1710519758"></iframe></font>
+<td width=45%><img height=580px src=./ruler.png?1710521691><td width=55%><img height=220px src=./decays.png?1710521691>
+<font size=-3><iframe type="text/html" height="300px" width="100%" frameborder="0" src="./rawnumbers.html?1710521691"></iframe></font>
 </table>
 </body>
 </html>
